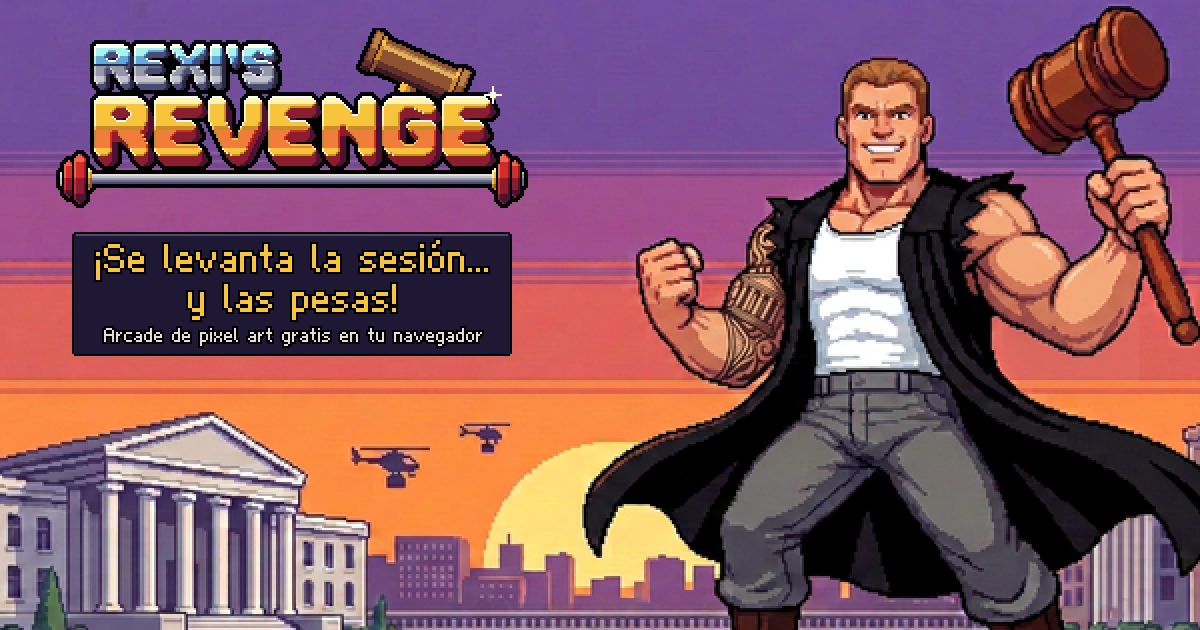
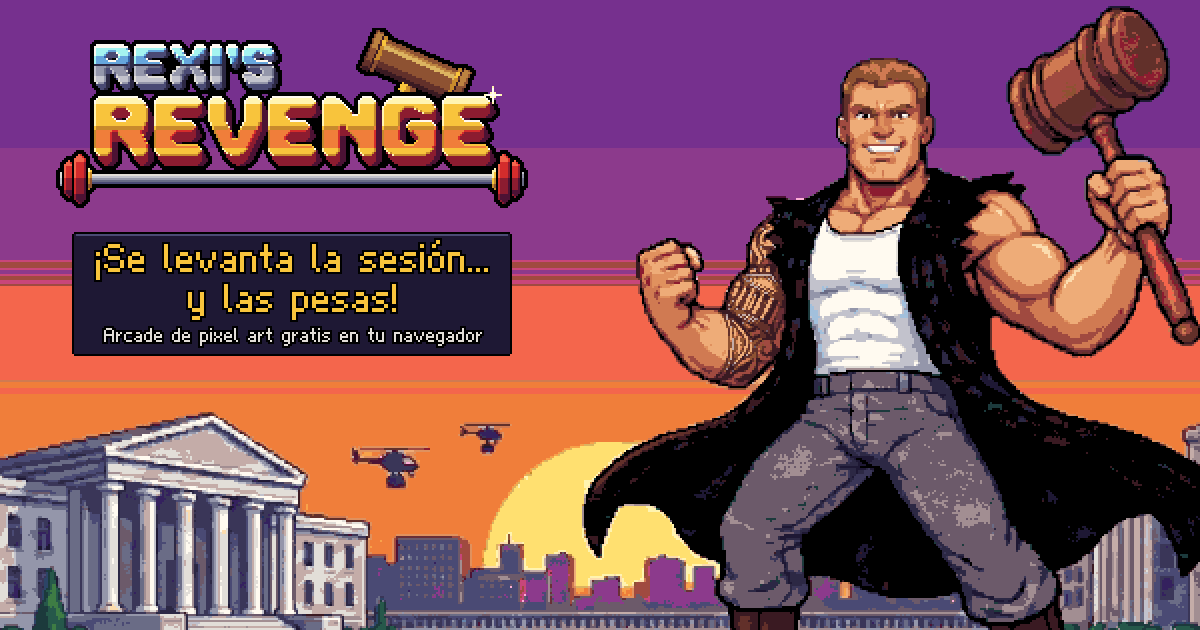
Palette audit over every golden, title on the palette, Arena bleed for the shake. Refs #30, Refs #24

diff --git a/tests/render/arena.test.ts b/tests/render/arena.test.ts
@@ -1,13 +1,15 @@
 import { describe, expect, it } from 'vitest';
-import type { RunView } from '../../src/core';
+import { defaultTuning, SCREEN_HEIGHT, SCREEN_WIDTH, type RunView } from '../../src/core';
 import { sprites as art } from '../../src/render/art/generated/arena';
 import type { DrawContext } from '../../src/render/draw-context';
-import { drawArena, ledgeSprite, neonState } from '../../src/render/layers/arena';
+import { ARENA_BLEED, drawArena, ledgeSprite, neonState } from '../../src/render/layers/arena';
 import { arenaSigns } from '../../src/render/layers/arena-signs';
 import { findOffPaletteSpriteColors, isPaletteColor } from '../../src/render/palette-audit';
 import type { SpriteDef } from '../../src/render/sprite';
 import type { Bitmap } from '../../src/render/surface';
-import { drive } from '../support/driver';
+import { drive, eventsOf } from '../support/driver';
+import { holdStill } from '../support/fixtures';
+import { renderView } from '../support/render-node';
 
 type Op =
   | { kind: 'rect'; x: number; y: number; w: number; h: number; color: string }
@@ -82,5 +84,60 @@ describe('Arena', () => {
         expect([row.charAt(0), row.charAt(w - 1)], `w=${w}`).toEqual([outline, outline]);
       }
     }
+  });
+
+  it('bleeds past every screen edge by more than the default screen shake can move it', () => {
+    const { maxOffset, scale } = defaultTuning.effects.shake;
+    expect(maxOffset * scale).toBeLessThanOrEqual(ARENA_BLEED);
+    const layers = record(runAt(1)).filter(
+      (op) => op.kind === 'bitmap' && op.sprite.width > SCREEN_WIDTH,
+    );
+    expect(layers).toHaveLength(4);
+    for (const op of layers) {
+      expect(op).toMatchObject({ x: -ARENA_BLEED, y: -ARENA_BLEED });
+      if (op.kind !== 'bitmap') continue;
+      expect([op.sprite.width, op.sprite.height]).toEqual([
+        SCREEN_WIDTH + 2 * ARENA_BLEED,
+        SCREEN_HEIGHT + 2 * ARENA_BLEED,
+      ]);
+    }
+  });
+
+  it('never shows the letterbox at the edges of a shaken frame, even past the bleed', () => {
+    // Full trauma and four times the shake, so the offset passes the bleed and the renderer
+    // has to clamp it.
+    const game = drive({
+      seed: 3,
+      overrides: {
+        spawns: [{ kind: 'maletin-coptero', x: 320, y: 120 }],
+        tuning: holdStill({
+          effects: { shake: { scale: 4 }, explosions: { large: { trauma: 1 } } },
+          weapons: { 'mazo-automatico': { damage: 999 } },
+          enemies: { 'maletin-coptero': { explosion: 'large' } },
+        }),
+      },
+    });
+    let shake = { x: 0, y: 0 };
+    for (let t = 0; t < 240 && Math.abs(shake.x) <= ARENA_BLEED; t++) {
+      game.ticks(1, {
+        aim: { x: 335, y: 132 },
+        fire: eventsOf(game.log, 'enemy-destroyed').length === 0,
+      });
+      shake = game.view.run?.effects.shake ?? shake;
+    }
+    expect(Math.abs(shake.x)).toBeGreaterThan(ARENA_BLEED);
+    const { width, data } = renderView(game.view);
+    // The uncovered strip (letterbox black without the bleed) is on the side the world moved.
+    const strip = shake.x > 0 ? [0, ARENA_BLEED] : [SCREEN_WIDTH - ARENA_BLEED, SCREEN_WIDTH];
+    let black = 0;
+    let total = 0;
+    for (let y = 40; y < SCREEN_HEIGHT - 60; y++) {
+      for (let x = strip[0] ?? 0; x < (strip[1] ?? 0); x++) {
+        const i = (y * width + x) * 4;
+        total++;
+        if (data[i] === 0 && data[i + 1] === 0 && data[i + 2] === 0) black++;
+      }
+    }
+    expect(black / total).toBeLessThan(0.2);
   });
 });

diff --git a/tests/render/palette.test.ts b/tests/render/palette.test.ts
@@ -9,8 +9,13 @@ import {
   nearestPaletteColor,
 } from '../../src/render/palette-audit';
 import { defineSprite } from '../../src/render/sprite';
+import { sprites as arena } from '../../src/render/art/generated/arena';
+import { sprites as enemies } from '../../src/render/art/generated/enemies';
 import { sprites as icons } from '../../src/render/art/generated/icons';
+import { sprites as projectiles } from '../../src/render/art/generated/projectiles';
 import { sprites as record } from '../../src/render/art/generated/record';
+import { sprites as rexiPortrait } from '../../src/render/art/generated/rexi-portrait';
+import { sprites as rexi } from '../../src/render/art/generated/rexi';
 import { expectOnPalette, loadGoldens, SWATCH_LABEL_WIDTH } from '../support/palette';
 
 function luma(color: string): number {
@@ -74,28 +79,20 @@ describe('palette audit', () => {
     expect(nearestPaletteColor('#fefefe')).toBe(masterPalette.white);
   });
 
-  it('UI art redrawn in the art pass (#29) uses only master-palette colors', async () => {
-    // Pipeline icons and court record ornaments.
-    expect(findOffPaletteSpriteColors(Object.values(icons))).toEqual([]);
-    expect(findOffPaletteSpriteColors(Object.values(record))).toEqual([]);
-    // Screens drawn entirely by the UI layer (the others still show older art).
-    const uiOnly = new Set([
-      'how-to-play-desktop',
-      'how-to-play-touch',
-      'rotate-prompt',
-      'rotate-prompt-sideways',
-      'title-backdrop',
-    ]);
-    const goldens = (await loadGoldens()).filter(({ name }) => uiOnly.has(name));
-    expect(goldens.map(({ name }) => name).sort()).toEqual([...uiOnly].sort());
-    for (const { name, image } of goldens) expectOnPalette(name, image);
+  it('every exported pipeline sprite uses only master-palette colors', () => {
+    const modules = { arena, enemies, icons, projectiles, record, rexiPortrait, rexi };
+    for (const [name, sprites] of Object.entries(modules)) {
+      expect(findOffPaletteSpriteColors(Object.values(sprites)), name).toEqual([]);
+    }
   });
 
-  // TODO(art pass, #24): the existing art predates the master palette, so this is skipped.
-  // The art pass remaps every sprite and drawer to `masterPalette` and then enables it
-  // (`it.skip` → `it`): any off-palette color in a golden frame then fails with a report
-  // naming the color, where it first appears and its nearest palette color.
-  it.skip('every golden frame uses only master-palette colors', async () => {
-    for (const { name, image } of await loadGoldens()) expectOnPalette(name, image);
+  // What reaches the screen: every golden frame, including the Title over the decoded
+  // illustration (`public/title.png` is snapped to the palette by `rexi_refs.py title`). Code
+  // drawers name `masterPalette` colors, so an off-palette pixel here is a regression: the
+  // report names the color, where it first appears and its nearest palette color.
+  it('every golden frame uses only master-palette colors', async () => {
+    const goldens = await loadGoldens();
+    expect(goldens.length).toBeGreaterThan(0);
+    for (const { name, image } of goldens) expectOnPalette(name, image);
   });
 });

diff --git a/src/render/layers/arena.ts b/src/render/layers/arena.ts
@@ -14,6 +14,9 @@ import { arenaSigns, type NeonState } from './arena-signs';
  * sky → drifting clouds → far skyline → buildings → plaza → lettering, neon and billboard
  * bulbs → one-way platforms.
  *
+ * The four layers bleed {@link ARENA_BLEED} px past every screen edge, so the screen shake
+ * (which moves the world layers) never uncovers the letterbox behind them.
+ *
  * Every animation phase comes from the Run tick, so the scene is deterministic and freezes
  * while paused. The HUD band (top) is flat dark sky and the Dialogue Box band (bottom) is flat
  * pavement, so both stay calm.
@@ -24,12 +27,12 @@ export function drawArena(dc: DrawContext, run: RunView): void {
     surface.drawBitmap(sprites.get(sprite), x, y);
   };
 
-  draw(art['layers/sky'], 0, 0);
+  draw(bled('layers/sky'), -ARENA_BLEED, -ARENA_BLEED);
   const t = run.tick / TICKS_PER_SECOND;
   for (const cloud of CLOUDS) draw(cloud.sprite, cloudX(cloud, t), cloud.y);
-  draw(art['layers/far'], 0, 0);
-  draw(art['layers/buildings'], 0, 0);
-  draw(art['layers/plaza'], 0, 0);
+  draw(bled('layers/far'), -ARENA_BLEED, -ARENA_BLEED);
+  draw(bled('layers/buildings'), -ARENA_BLEED, -ARENA_BLEED);
+  draw(bled('layers/plaza'), -ARENA_BLEED, -ARENA_BLEED);
 
   const signs = arenaSigns();
   const neon = signs.neon[neonState(run.tick)];
@@ -37,6 +40,44 @@ export function drawArena(dc: DrawContext, run: RunView): void {
   drawBillboardBulbs(surface, run.tick);
 
   for (const { x, y, w } of run.arena.platforms) draw(ledgeSprite(w), x, y - 1);
+}
+
+// ---------------------------------------------------------------------------------------------
+// Bleed
+// ---------------------------------------------------------------------------------------------
+
+/**
+ * How far the Arena's layers extend past each screen edge, px. The renderer clamps the screen
+ * shake to it, and a test checks the default shake tuning fits inside it.
+ */
+export const ARENA_BLEED = 12;
+
+type ArenaLayer = 'layers/sky' | 'layers/far' | 'layers/buildings' | 'layers/plaza';
+const bleedCache = new Map<ArenaLayer, SpriteDef>();
+
+/**
+ * A 640×360 layer grown by {@link ARENA_BLEED} on every side, mirrored about its edges: the
+ * flat sky band and the pavement continue, and the buildings cut by the screen edge carry on
+ * with their own windows and columns for the few pixels a shake reveals.
+ */
+function bled(name: ArenaLayer): SpriteDef {
+  let sprite = bleedCache.get(name);
+  if (!sprite) {
+    const { palette, rows, width, height } = art[name];
+    const mirror = (i: number, n: number) => (i < 0 ? -1 - i : i >= n ? 2 * n - 1 - i : i);
+    const span = (n: number) =>
+      Array.from({ length: n + 2 * ARENA_BLEED }, (_, i) => i - ARENA_BLEED);
+    const columns = span(width).map((x) => mirror(x, width));
+    sprite = defineSprite(
+      palette,
+      span(height).map((y) => {
+        const row = rows[mirror(y, height)] ?? '';
+        return columns.map((x) => row[x]).join('');
+      }),
+    );
+    bleedCache.set(name, sprite);
+  }
+  return sprite;
 }
 
 // ---------------------------------------------------------------------------------------------

diff --git a/src/render/renderer.ts b/src/render/renderer.ts
@@ -4,7 +4,7 @@ import { translatedContext, type DrawContext } from './draw-context';
 import { drawEffects } from './effects';
 import { drawEnemies } from './enemies';
 import { drawHud } from './hud/hud';
-import { drawArena } from './layers/arena';
+import { ARENA_BLEED, drawArena } from './layers/arena';
 import { drawCrates } from './layers/crates';
 import { drawCrosshair } from './layers/crosshair';
 import { drawSlowMotionTint } from './layers/power-up-effects';
@@ -49,7 +49,10 @@ export interface RendererOptions {
 
 type ScreenDrawer = (dc: DrawContext, view: GameView) => void;
 
-/** Draws world layers offset by the screen shake, then fixed screen layers. */
+/**
+ * Draws world layers offset by the screen shake (clamped to the Arena's bleed, so the edges
+ * never show the letterbox), then fixed screen layers.
+ */
 function drawRun(
   dc: DrawContext,
   worldLayers: readonly RunLayer[],
@@ -57,7 +60,9 @@ function drawRun(
 ): void {
   const { run } = dc.view;
   if (!run) return;
-  const world = translatedContext(dc, run.effects.shake.x, run.effects.shake.y);
+  const clampShake = (offset: number) => Math.max(-ARENA_BLEED, Math.min(ARENA_BLEED, offset));
+  const { x, y } = run.effects.shake;
+  const world = translatedContext(dc, clampShake(x), clampShake(y));
   for (const layer of worldLayers) layer(world, run);
   for (const layer of screenLayers) layer(dc, run);
 }

diff --git a/tests/golden/text.golden.test.ts b/tests/golden/text.golden.test.ts
@@ -1,13 +1,14 @@
 /** Golden specimen of the bitmap fonts: every glyph, both sizes, and wrapped text. */
 import { describe, it } from 'vitest';
 import { drawText, fonts } from '../../src/render';
+import { masterPalette } from '../../src/render/palette';
 import { renderPart } from '../support/render-node';
 import { expectGolden } from './golden';
 
-const BACKGROUND = '#2b1e4a';
-const INK = '#ffffff';
-const ACCENT = '#ffd88a';
-const SHADOW = '#1a1020';
+const BACKGROUND = masterPalette.robe;
+const INK = masterPalette.white;
+const ACCENT = masterPalette.gold;
+const SHADOW = masterPalette.night;
 
 describe('Text goldens', () => {
   it('font-specimen: regular and large fonts, alignment and wrapping', async () => {

diff --git a/src/render/palette.ts b/src/render/palette.ts
@@ -7,8 +7,8 @@ import type { Color } from './surface';
  * (e.g. `coral` is both the gym-red highlight and a sunset band), so pick by ramp
  * from {@link paletteRamps}, not by eyeballing hex values.
  *
- * The existing art is not remapped yet: the art pass will move every sprite and drawer onto
- * these names and enable the palette test in tests/render/palette.test.ts.
+ * Every sprite, drawer and the title illustration use only these colors;
+ * tests/render/palette.test.ts checks every exported sprite and every golden frame.
  */
 export const masterPalette = {
   // Outline and robe blacks (purple-blue sheen; robeMid is the fold step between robe and robeSheen).

diff --git a/scripts/art/characters/rexi_refs.py b/scripts/art/characters/rexi_refs.py
@@ -23,8 +23,10 @@ title-hint
 title-source
        reference/title-source.png: ref_title_v8 (the hint cleaned up into a sleeve) with the arm
        holding the gavel pasted back from ref_title_v4, because the edit inked that arm too.
-title  public/title.png: reference/title-source.png centre-cropped to 16:9 and downscaled to
-       640x360 with Lanczos smoothing (the title illustration is the one decoded image, ADR 0002).
+title  public/title.png: reference/title-source.png centre-cropped to 16:9, resampled to 640x360
+       by cell-centre medians and snapped to the master palette, with the sky flattened into one
+       colour per row (the title illustration is the one decoded image, ADR 0002; #30 put it on
+       the palette so the golden palette check covers the Title too).
 """
 import os
 import sys
@@ -128,12 +130,43 @@ def title_source(edit=os.path.join(RAW, "ref_title_v8.png"), clean=os.path.join(
     return path
 
 
+SKY_BOTTOM = 226          # title rows above the sun's top and the skyline: open sky only
+SKY_MATCH = 14.0          # CIELAB distance from a row's sky colour that still counts as sky
+SKY_SAMPLE = (0, 300)     # columns of pure sky (left of Rexi, the logo goes there) for each row
+
+
 def title(src=os.path.join(REF, "title-source.png"), out=os.path.join(ROOT, "public", "title.png")):
-    im = Image.open(src).convert("RGB")
-    w, h = im.size
+    """Centre-crop to 16:9, take each 640x360 cell's centre median (no smoothing across cell
+    edges, so outlines stay hard) and snap it to the master palette in CIELAB. The sky is then
+    flattened into one palette colour per row: the source's soft gradient noise would otherwise
+    snap into speckles between neighbouring ramp steps. A sky cell is one that is close to its
+    row's sky colour and connected to the open sky, so Rexi, the gavel and the helicopters keep
+    their pixels."""
+    from pixelize import label, snap, to_lab
+
+    a = np.asarray(Image.open(src).convert("RGB")).astype(float)
+    h, w = a.shape[:2]
     cw, ch = (w, round(w * 9 / 16)) if w * 9 <= h * 16 else (round(h * 16 / 9), h)
-    box = ((w - cw) // 2, (h - ch) // 2, (w - cw) // 2 + cw, (h - ch) // 2 + ch)
-    im.crop(box).resize((640, 360), Image.LANCZOS).convert("RGBA").save(out, optimize=True)
+    a = a[(h - ch) // 2:(h - ch) // 2 + ch, (w - cw) // 2:(w - cw) // 2 + cw]
+    s, r = cw / 640, cw / 640 * 0.3
+    grid = np.zeros((360, 640, 4), np.uint8)
+    grid[..., 3] = 255
+    for j in range(360):
+        cy = (j + 0.5) * s
+        for i in range(640):
+            cx = (i + 0.5) * s
+            cell = a[int(cy - r):int(cy + r) + 1, int(cx - r):int(cx + r) + 1]
+            grid[j, i, :3] = np.median(cell.reshape(-1, 3), axis=0)
+    rows = np.median(grid[:SKY_BOTTOM, SKY_SAMPLE[0]:SKY_SAMPLE[1], :3], axis=1)   # (rows, 3)
+    near = np.sqrt(((to_lab(grid[:SKY_BOTTOM, :, :3].astype(float))
+                     - to_lab(rows)[:, None, :]) ** 2).sum(-1)) < SKY_MATCH
+    lab, _ = label(near, conn8=False)
+    open_sky = set(np.unique(lab[:, SKY_SAMPLE[0]:SKY_SAMPLE[1]])) - {0}
+    sky = np.isin(lab, list(open_sky))
+    flat = grid[:SKY_BOTTOM].copy()
+    flat[..., :3] = np.repeat(rows[:, None, :], 640, axis=1)
+    grid[:SKY_BOTTOM][sky] = flat[sky]
+    Image.fromarray(snap(grid)).save(out, optimize=True)
     return out
 
 
